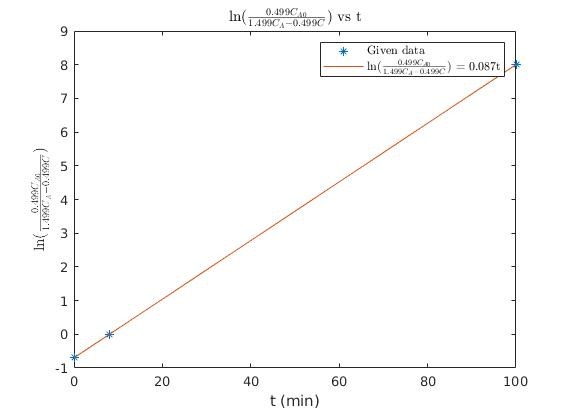
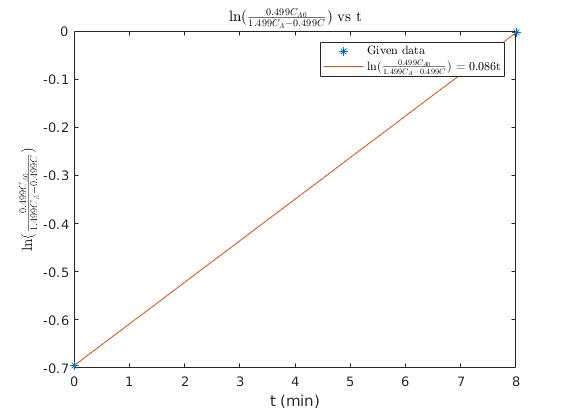
Edited assignment2/problem3.m so that only two data points are used to find the best polynomial fit.

diff --git a/assignment2/problem3.m b/assignment2/problem3.m
@@ -1,8 +1,8 @@
-t = [0, 8, 100];
-C_a = [0.5, 0.3335, 0.1665];
+t = [0, 8];
+C_a = [0.5, 0.3335];
 
 log_term = log(0.499*0.5./(1.499.*C_a-0.499*0.5));
-x = 0:1:100;
+x = 0:0.1:8;
 p = polyfit(t, log_term, 1);
 y = polyval(p, x);
 
@@ -11,5 +11,5 @@ hold on;
 title('ln($\frac{0.499C_{A0}}{1.499C_{A}-0.499C}$) vs t','interpreter','latex');
 xlabel('t (min)');
 ylabel('ln($\frac{0.499C_{A0}}{1.499C_{A}-0.499C}$)', 'interpreter','latex');
-legend('Given data', 'ln($\frac{0.499C_{A0}}{1.499C_{A}-0.499C}$) = 0.087t', 'interpreter','latex');
+legend('Given data', 'ln($\frac{0.499C_{A0}}{1.499C_{A}-0.499C}$) = 0.086t', 'interpreter','latex');
 hold off;
